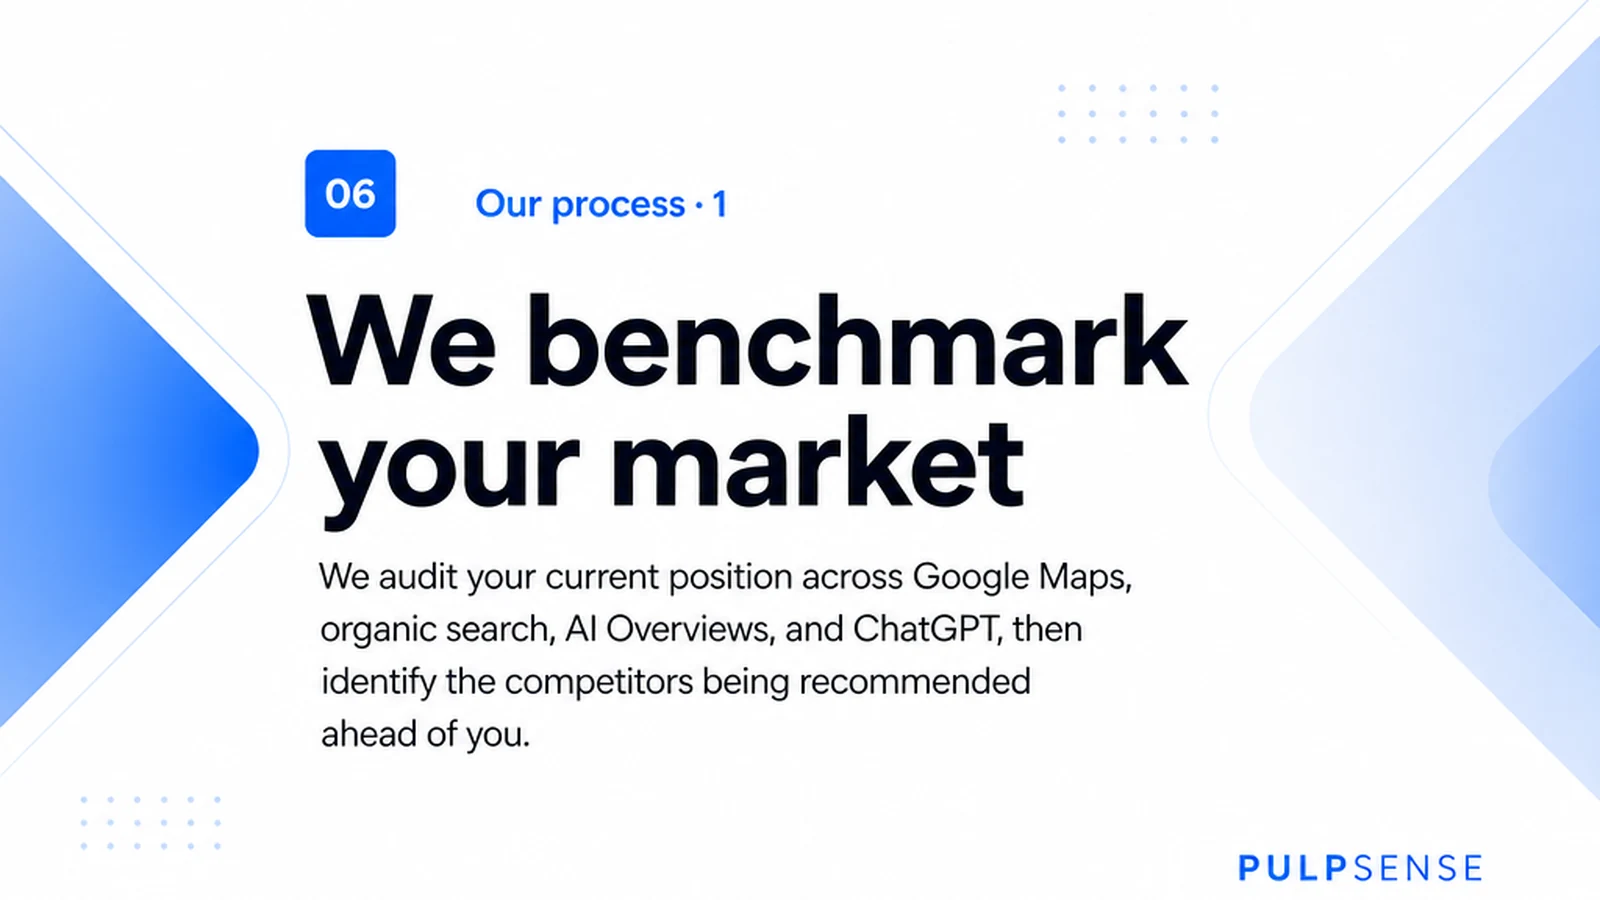
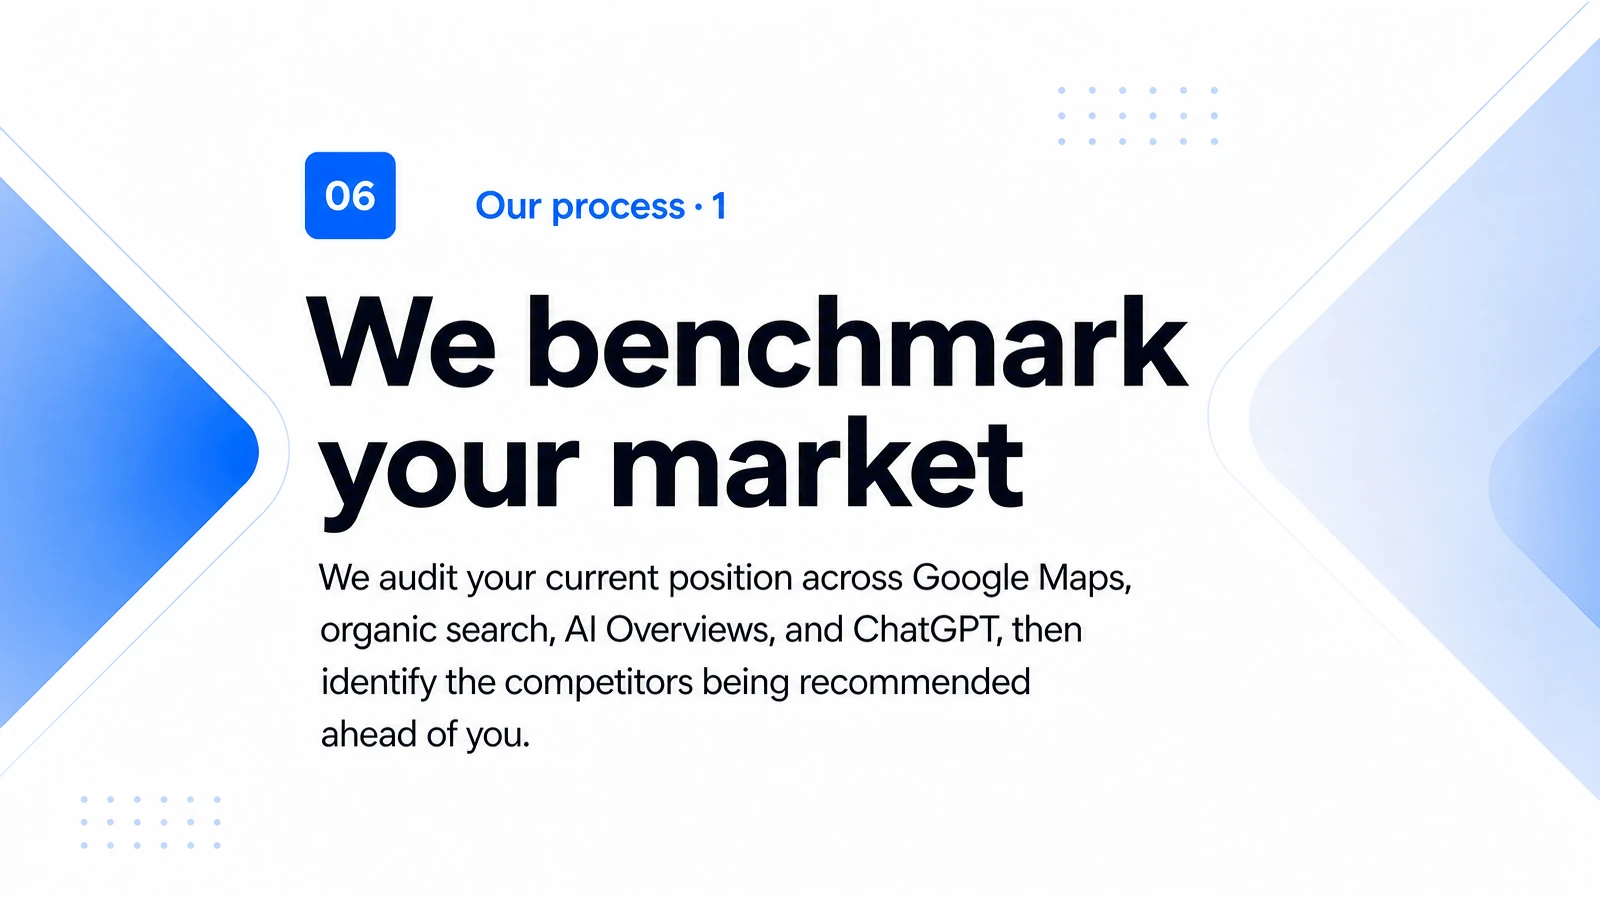
fix(funnels): make thank-you deck brand-neutral

diff --git a/apps/funnels/src/funnels/ai-seo/components/thank-you/ThankYouDeckCarousel.tsx b/apps/funnels/src/funnels/ai-seo/components/thank-you/ThankYouDeckCarousel.tsx
@@ -10,114 +10,32 @@ import {
   type CarouselApi,
 } from "@/components/ui/carousel";
 
-type BriefingSlide = {
-  eyebrow: string;
-  title: string;
-  body: string;
-  points?: readonly string[];
-  accent?: string;
-};
-
-const briefingSlides: readonly BriefingSlide[] = [
-  {
-    eyebrow: "You’re booked",
-    title: "Your Regional Visibility Audit is reserved",
-    body: "Take two minutes to review the next steps and arrive knowing exactly what we will examine together.",
-    accent: "45 new calls in 90 days. Or we work free until you get them.",
-  },
-  {
-    eyebrow: "Step 1",
-    title: "Confirm your calendar invitation",
-    body: "Find the invitation in your inbox or spam folder and click “Yes.” That tells us the time is locked into your calendar.",
-    points: [
-      "Open the calendar invitation",
-      "Click “Yes”",
-      "Keep the meeting link handy",
-    ],
-  },
-  {
-    eyebrow: "If plans change",
-    title: "Reschedule instead of missing the call",
-    body: "Emergencies happen. Reschedule from the link in your invitation so the time can be released and you can choose another slot.",
-  },
-  {
-    eyebrow: "What happens next",
-    title: "We will diagnose the visibility gap live",
-    body: "You will see where your business appears today, which competitors are recommended first, and what is most likely costing you calls.",
-    points: [
-      "Google Maps and organic search",
-      "AI Overviews and ChatGPT",
-      "Competitor authority signals",
-    ],
-  },
-  {
-    eyebrow: "How recommendations work",
-    title: "Google and AI look for clear, consistent authority",
-    body: "Your website is only one source. Search and AI systems cross-check maps, directories, reviews, citations, structured data, and trusted third-party references.",
-  },
-  {
-    eyebrow: "Our process · 1",
-    title: "We benchmark your market",
-    body: "We audit your current position across Google Maps, organic search, AI Overviews, and ChatGPT, then identify the competitors being recommended ahead of you.",
-  },
-  {
-    eyebrow: "Our process · 2",
-    title: "We build your authority foundation",
-    body: "We strengthen the business information, technical structure, regional coverage, service content, citations, profiles, and reputation signals those systems rely on.",
-  },
-  {
-    eyebrow: "Authority ecosystem",
-    title: "Every signal should tell the same story",
-    body: "Consistent information makes it easier for Google and AI to understand what you do, where you operate, and why your business should be trusted.",
-    points: [
-      "Business profiles",
-      "Website and structured data",
-      "Directories and citations",
-      "Reviews and third-party proof",
-    ],
-  },
-  {
-    eyebrow: "Reputation",
-    title: "We make genuine customer trust easier to see",
-    body: "We help build a compliant reputation system that consistently requests honest feedback and strengthens the proof surrounding your business.",
-  },
-  {
-    eyebrow: "Our process · 3",
-    title: "We expand and maintain visibility",
-    body: "We strengthen weak markets and service lines, monitor movement, and keep improving your presence as the competitive landscape changes.",
-  },
-  {
-    eyebrow: "Clear reporting",
-    title: "You will know what changed and what comes next",
-    body: "We establish the baseline and reporting process during onboarding, then review visibility, completed work, priorities, and call growth against that baseline.",
-  },
-  {
-    eyebrow: "Your involvement",
-    title: "We handle the implementation",
-    body: "Your team provides the access and business context we need. We build and manage the system, then align with you during focused review calls.",
-  },
-  {
-    eyebrow: "Already working with an agency?",
-    title: "The audit still gives you a useful benchmark",
-    body: "We can complement existing SEO work by examining AI recommendations, business profiles, citations, reputation signals, and regional authority gaps.",
-  },
-  {
-    eyebrow: "The guarantee",
-    title: "45 additional calls in 90 days",
-    body: "If you do not receive the agreed result, we continue working at no management fee until you do. We will explain qualification, baseline, and measurement on the call.",
-  },
-  {
-    eyebrow: "Come prepared",
-    title: "Bring the markets and services that matter most",
-    body: "Know your priority locations, highest-value services, current marketing partners, and any visibility or call-tracking questions you want us to investigate.",
-  },
-  {
-    eyebrow: "That’s it",
-    title: "We’ll see you on the call",
-    body: "Confirm the invitation, keep the meeting link handy, and arrive ready to see how your business is represented across Google and AI.",
-    accent: "One business per service category, per market.",
-  },
+const slideDescriptions = [
+  "Your Regional Visibility Audit is reserved. Review the next steps and the guarantee of 45 new calls in 90 days, or work continues free until the business gets them.",
+  "Confirm the calendar invitation by opening it, clicking Yes, and keeping the meeting link handy.",
+  "If plans change, reschedule from the invitation instead of missing the call.",
+  "The live audit diagnoses visibility across Google Maps, organic search, AI Overviews, ChatGPT, and competitor authority signals.",
+  "Google and AI cross-check websites, maps, directories, reviews, citations, structured data, and trusted third-party references for consistent authority.",
+  "The market is benchmarked across Google Maps, organic search, AI Overviews, and ChatGPT to identify competitors recommended first.",
+  "The authority foundation is built across business information, technical structure, regional coverage, service content, citations, profiles, and reputation.",
+  "Business profiles, website data, directories, citations, reviews, and third-party proof should consistently explain what the business does and where it operates.",
+  "A compliant reputation system requests honest customer feedback and makes genuine trust easier to see.",
+  "Visibility expands and is maintained across weak markets and service lines as the competitive landscape changes.",
+  "Reporting establishes a baseline and reviews visibility, completed work, priorities, and call growth.",
+  "The client provides access and business context while the implementation and focused review calls are handled for them.",
+  "The audit can complement an existing agency by benchmarking AI recommendations, profiles, citations, reputation, and regional authority gaps.",
+  "The guarantee is 45 additional calls in 90 days, or work continues at no management fee until the agreed result is reached.",
+  "Prepare priority locations, highest-value services, current marketing partners, and visibility or call-tracking questions for the audit.",
+  "Confirm the invitation, keep the meeting link handy, and arrive ready to review Google and AI visibility. One business per service category, per market.",
 ] as const;
+
+const slides = slideDescriptions.map((description, index) => {
+  const number = index + 1;
+  return {
+    image: `/ai-seo/thank-you-deck/slide-${String(number).padStart(2, "0")}.webp`,
+    alt: `Briefing slide ${number} of ${slideDescriptions.length}: ${description}`,
+  };
+});
 
 export function ThankYouDeckCarousel() {
   const [activeIndex, setActiveIndex] = useState(0);
@@ -151,37 +69,17 @@ export function ThankYouDeckCarousel() {
         setApi={setApi}
       >
         <CarouselContent className="pr-ty-deck-content">
-          {briefingSlides.map((briefingSlide, index) => (
-            <CarouselItem key={briefingSlide.title} className="pr-ty-deck-item">
+          {slides.map((slide, index) => (
+            <CarouselItem key={slide.image} className="pr-ty-deck-item">
               <div className="pr-ty-deck-stage" onClick={handleSlideTap}>
-                <div
-                  className="pr-ty-deck-grid"
-                  aria-live={index === activeIndex ? "polite" : undefined}
-                >
-                  <div className="pr-ty-deck-copy">
-                    <p className="pr-ty-deck-eyebrow">
-                      {briefingSlide.eyebrow}
-                    </p>
-                    <h2>{briefingSlide.title}</h2>
-                    <p className="pr-ty-deck-body">{briefingSlide.body}</p>
-                    {briefingSlide.points ? (
-                      <ul className="pr-ty-deck-points">
-                        {briefingSlide.points.map((point) => (
-                          <li key={point}>{point}</li>
-                        ))}
-                      </ul>
-                    ) : null}
-                    {briefingSlide.accent ? (
-                      <p className="pr-ty-deck-accent">
-                        {briefingSlide.accent}
-                      </p>
-                    ) : null}
-                  </div>
-                  <div className="pr-ty-deck-mark" aria-hidden="true">
-                    <span>{String(index + 1).padStart(2, "0")}</span>
-                    <small>PULPSENSE</small>
-                  </div>
-                </div>
+                <img
+                  className="pr-ty-deck-image"
+                  src={slide.image}
+                  alt={slide.alt}
+                  width="1600"
+                  height="900"
+                  draggable="false"
+                />
                 {index === 0 ? (
                   <span className="pr-ty-deck-tap-hint" aria-hidden="true">
                     <img src="/ai-seo/images/tap-mouse.svg" alt="" />
@@ -196,13 +94,13 @@ export function ThankYouDeckCarousel() {
       </Carousel>
 
       <div className="pr-ty-deck-controls">
-        <p className="pr-ty-deck-progress">
-          {activeIndex + 1} / {briefingSlides.length}
+        <p className="pr-ty-deck-progress" aria-live="polite">
+          {activeIndex + 1} / {slides.length}
         </p>
         <div className="pr-ty-deck-dots" aria-label="Choose a briefing slide">
-          {briefingSlides.map((item, index) => (
+          {slides.map((slide, index) => (
             <button
-              key={item.title}
+              key={slide.image}
               className="pr-ty-deck-dot"
               data-active={index === activeIndex ? "true" : "false"}
               type="button"

diff --git a/apps/funnels/src/funnels/ai-seo/components/thank-you/ThankYouDeckCarousel.test.ts b/apps/funnels/src/funnels/ai-seo/components/thank-you/ThankYouDeckCarousel.test.ts
@@ -20,39 +20,32 @@ const primitiveSource = readFileSync(
 );
 
 describe("AI SEO thank-you briefing deck", () => {
-  it("replaces the outdated confirmation video with the native deck", () => {
+  it("replaces the outdated confirmation video with the AI image deck", () => {
     expect(heroSource).toContain("ThankYouDeckCarousel");
     expect(heroSource).not.toContain("WistiaPlayer");
     expect(heroSource).not.toContain("8py8vigtf1");
-    expect(heroSource).not.toContain("pr-bar");
+    expect(carouselSource).toContain("/ai-seo/thank-you-deck/slide-");
+    expect(carouselSource).toContain("slideDescriptions.map");
+    expect(carouselSource).not.toContain("briefingSlides");
   });
 
-  it("covers call preparation and the approved Growth Platform delivery model", () => {
-    expect(carouselSource).toContain("Confirm your calendar invitation");
+  it("covers call preparation and the approved delivery model", () => {
+    expect(carouselSource).toContain("Confirm the calendar invitation");
     expect(carouselSource).toContain(
-      "Reschedule from the link in your invitation",
+      "reschedule from the invitation instead of missing the call",
     );
-    expect(carouselSource).toContain("We benchmark your market");
-    expect(carouselSource).toContain("We build your authority foundation");
-    expect(carouselSource).toContain("We expand and maintain visibility");
+    expect(carouselSource).toContain("The market is benchmarked");
+    expect(carouselSource).toContain("The authority foundation is built");
+    expect(carouselSource).toContain("Visibility expands and is maintained");
     expect(carouselSource).toContain("45 additional calls in 90 days");
   });
 
-  it("does not carry Lead Oracle pricing, trial, contracts, or review gating into PulpSense", () => {
-    expect(carouselSource).not.toMatch(/Lead Oracle|\$297|7-day trial/i);
+  it("keeps the briefing slides brand-neutral and excludes unsupported terms", () => {
+    expect(carouselSource).not.toMatch(
+      /PulpSense|Lead Oracle|\$297|7-day trial/i,
+    );
     expect(carouselSource).not.toMatch(/month-to-month|cancel anytime/i);
     expect(carouselSource).not.toMatch(/block one|block 1|one-star|two-star/i);
-  });
-
-  it("retains the useful calendar confirmation screenshot", () => {
-    const calendarSource = readFileSync(
-      new URL("./CalendarConfirmationStep.astro", import.meta.url),
-      "utf8",
-    );
-
-    expect(calendarSource).toContain("calendar-confirmation.webp");
-    expect(calendarSource).toContain("pr-inbox-guide");
-    expect(calendarSource).not.toContain("pr-calendar-preview");
   });
 
   it("preserves the true 16:9 image frame and compliant dot targets", () => {
@@ -72,14 +65,16 @@ describe("AI SEO thank-you briefing deck", () => {
     ).filter((file) => file.startsWith("slide-") && file.endsWith(".webp"));
 
     expect(deckFiles).toHaveLength(16);
-    expect(carouselSource).toContain("briefingSlides.map");
-    expect(carouselSource.match(/eyebrow: ["“]/g)).toHaveLength(16);
+    expect(carouselSource.match(/^  ".+",$/gm)).toHaveLength(16);
+    expect(carouselSource).toContain('width="1600"');
+    expect(carouselSource).toContain('height="900"');
   });
 
-  it("supports focused keyboard, swipe, and direct slide navigation", () => {
+  it("supports keyboard, swipe, tap zones, and direct slide navigation", () => {
     expect(carouselSource).toContain('from "@/components/ui/carousel"');
     expect(carouselSource).toContain("CarouselPrevious");
     expect(carouselSource).toContain("CarouselNext");
+    expect(carouselSource).toContain("handleSlideTap");
     expect(primitiveSource).toContain("tabIndex={0}");
     expect(primitiveSource).toContain("onKeyDown={handleKeyDown}");
     expect(primitiveSource).toContain('aria-label="Previous slide"');
